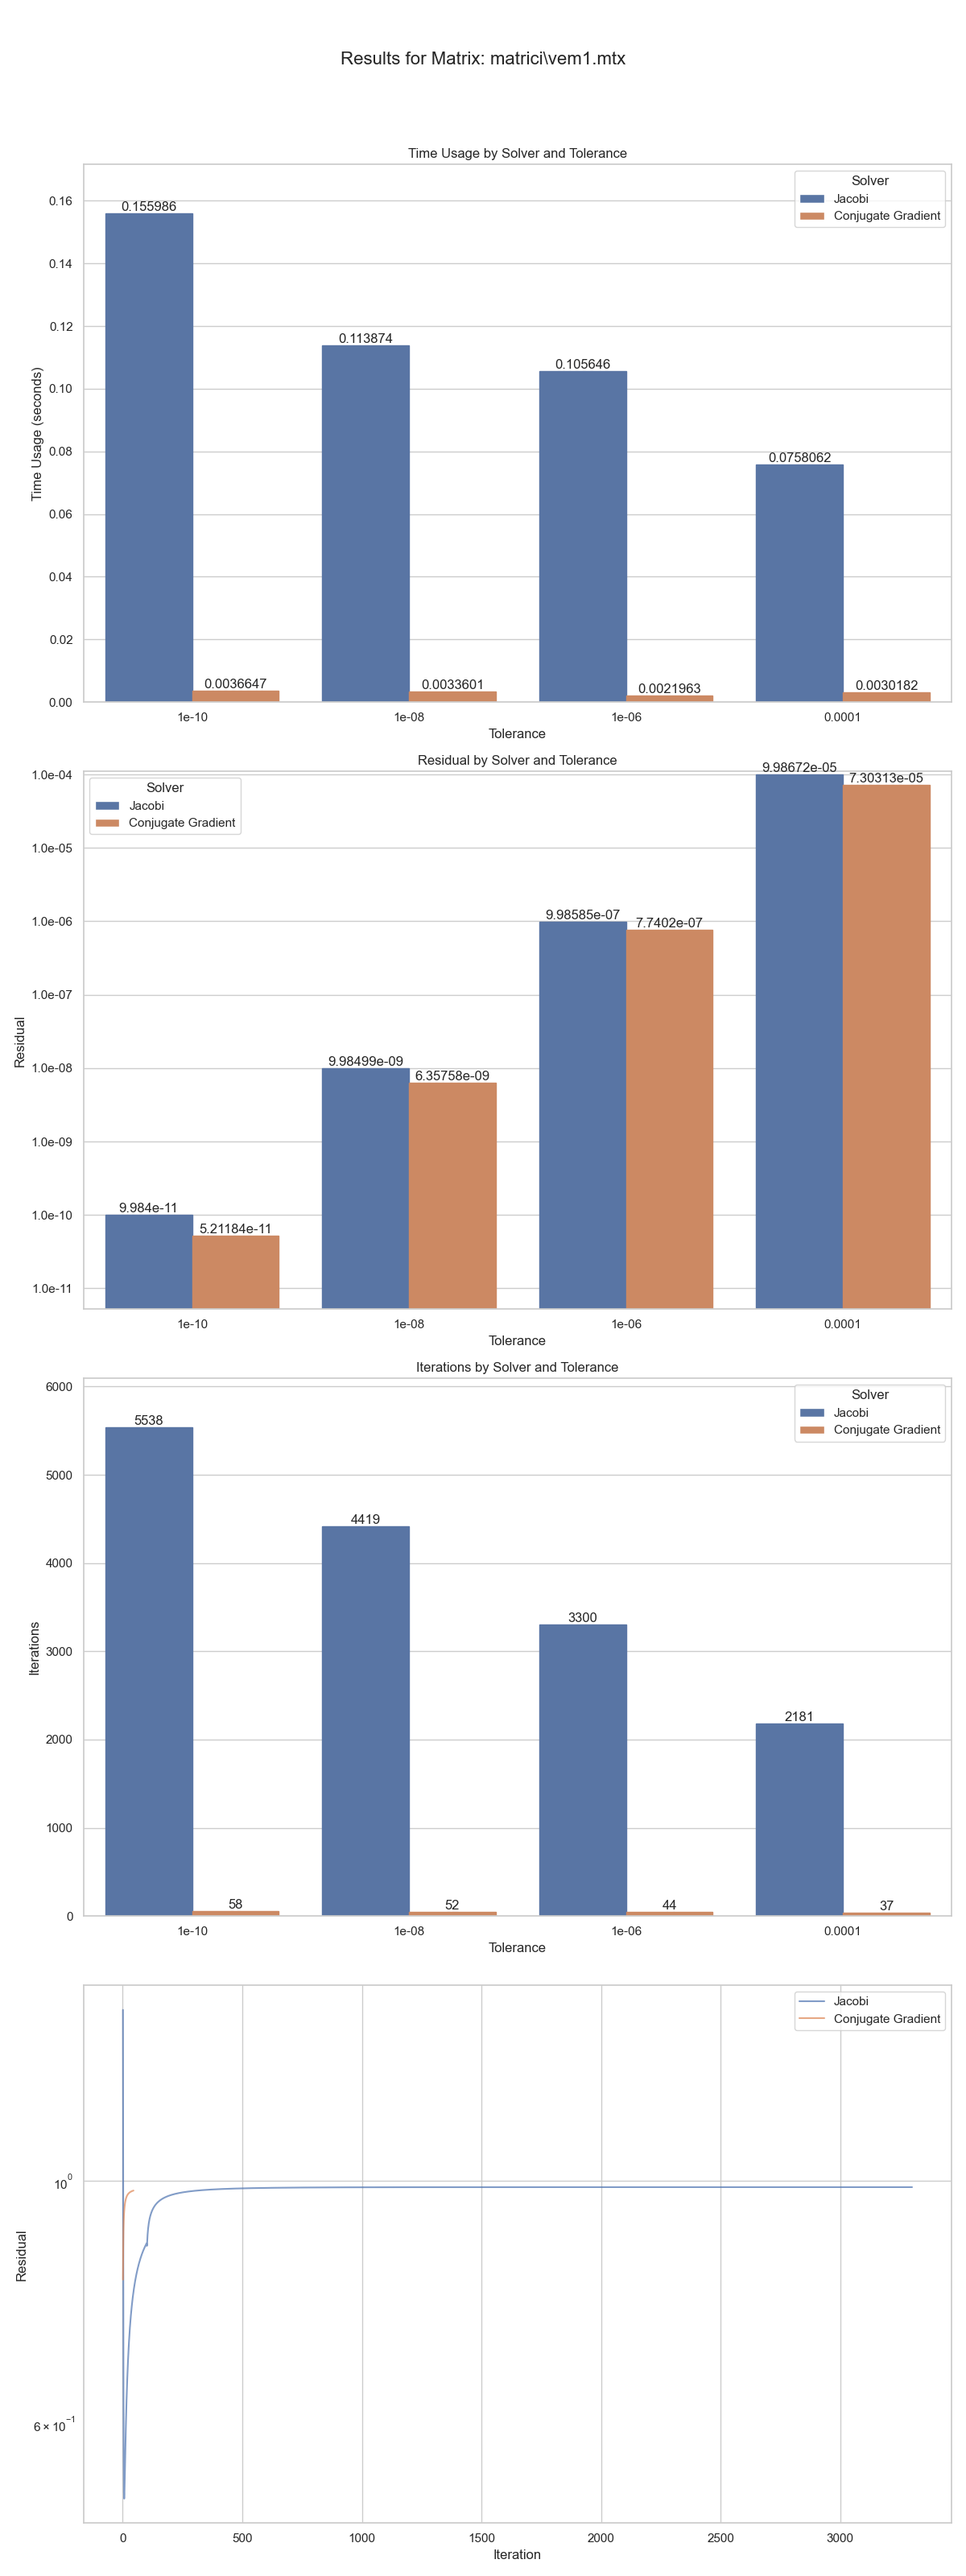
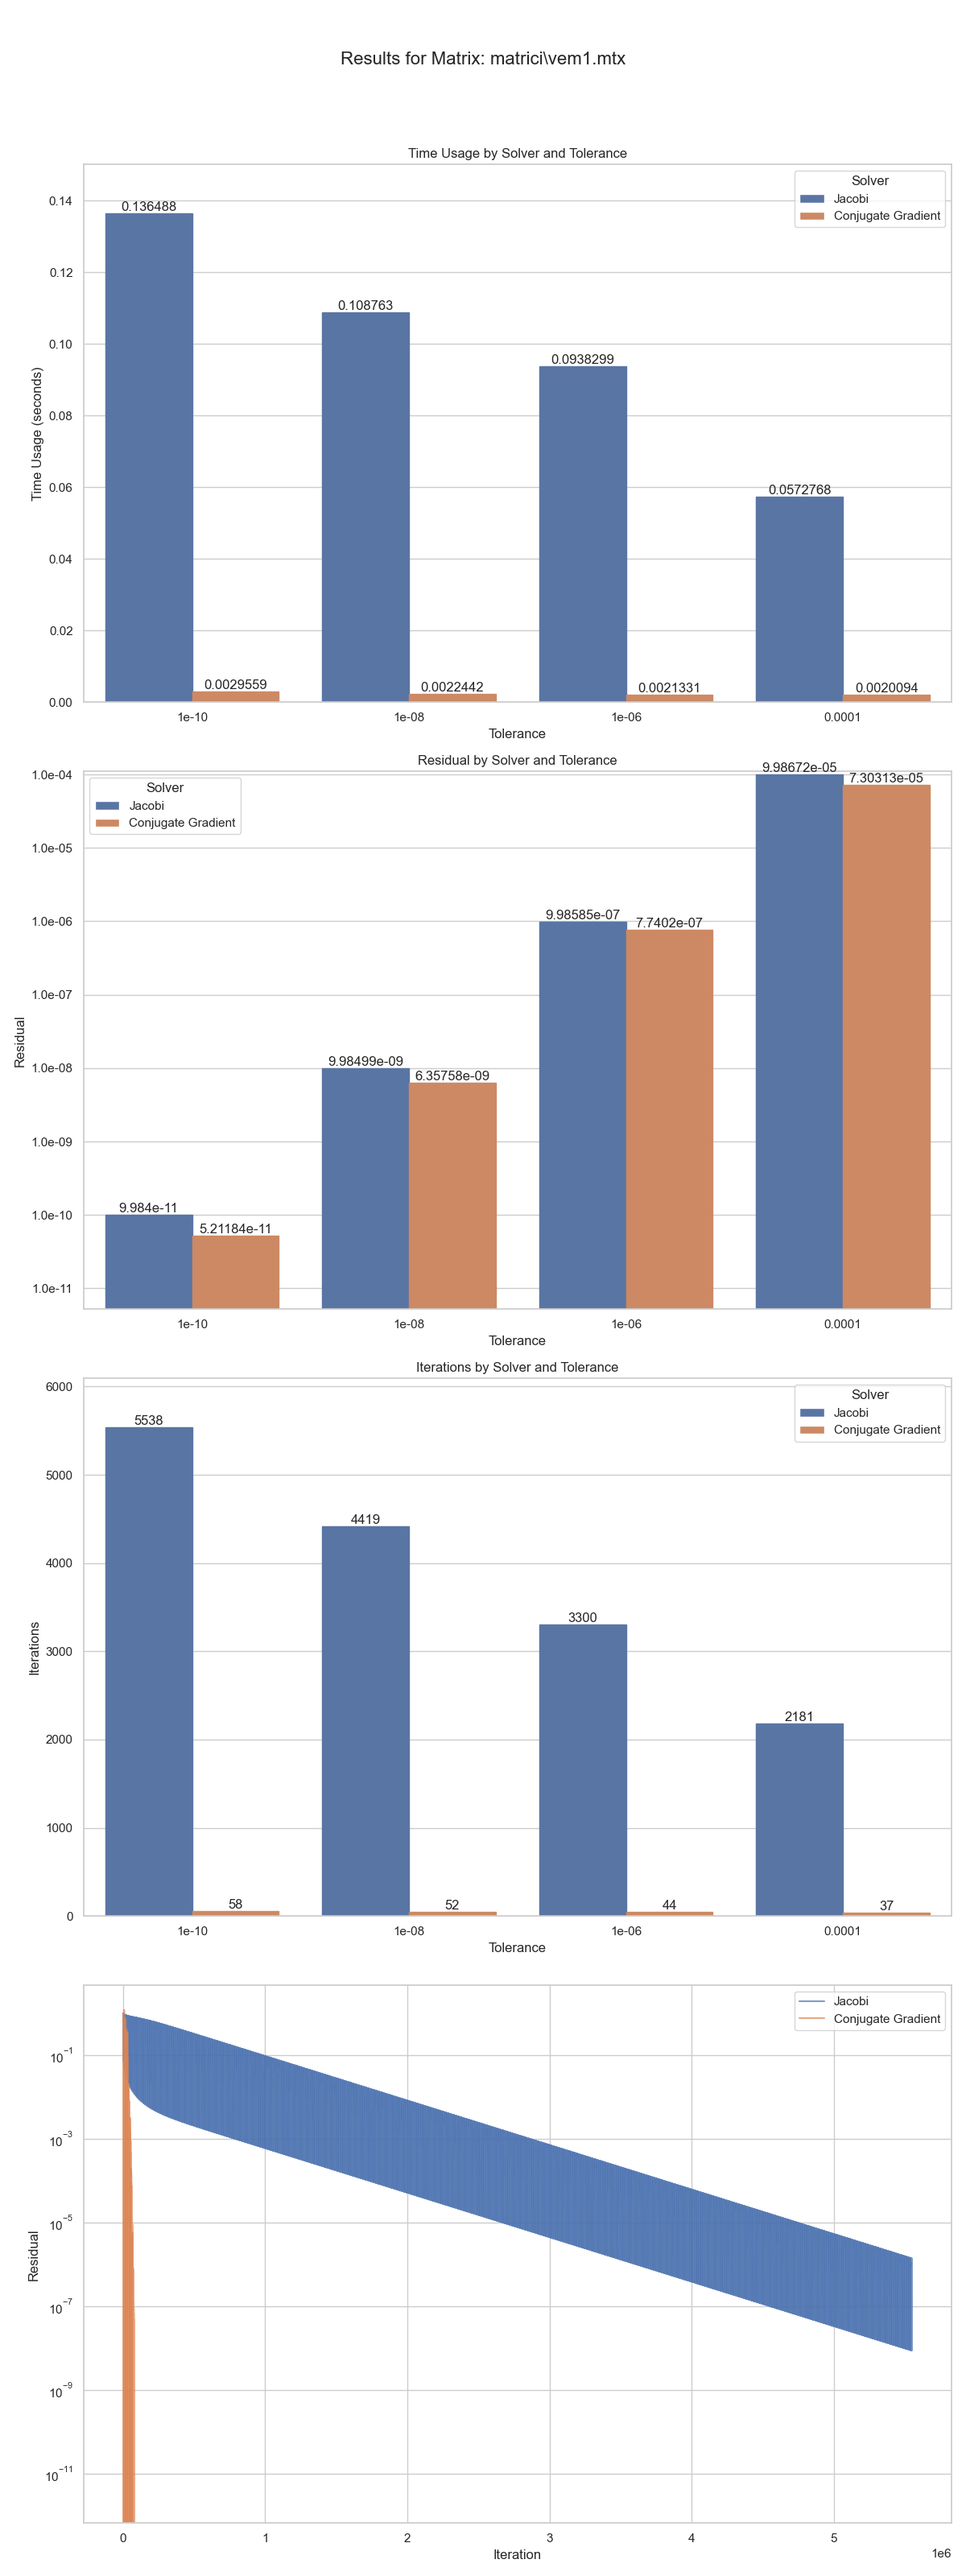
updates

diff --git a/Executer.py b/Executer.py
@@ -22,7 +22,7 @@ class Executer(ABC):
 
         for self.counter in range(self.iterations):
             self.x, residual_vector = self.update_function()
-            list_of_residual.append(self.get_error())
+            list_of_residual.append(residual_vector)
             residual_norm = np.linalg.norm(residual_vector)/np.linalg.norm(self.b)
             if residual_norm < self.tol:
                 print(f'{self.__class__.__name__}: Converged with residual norm {residual_norm}')
